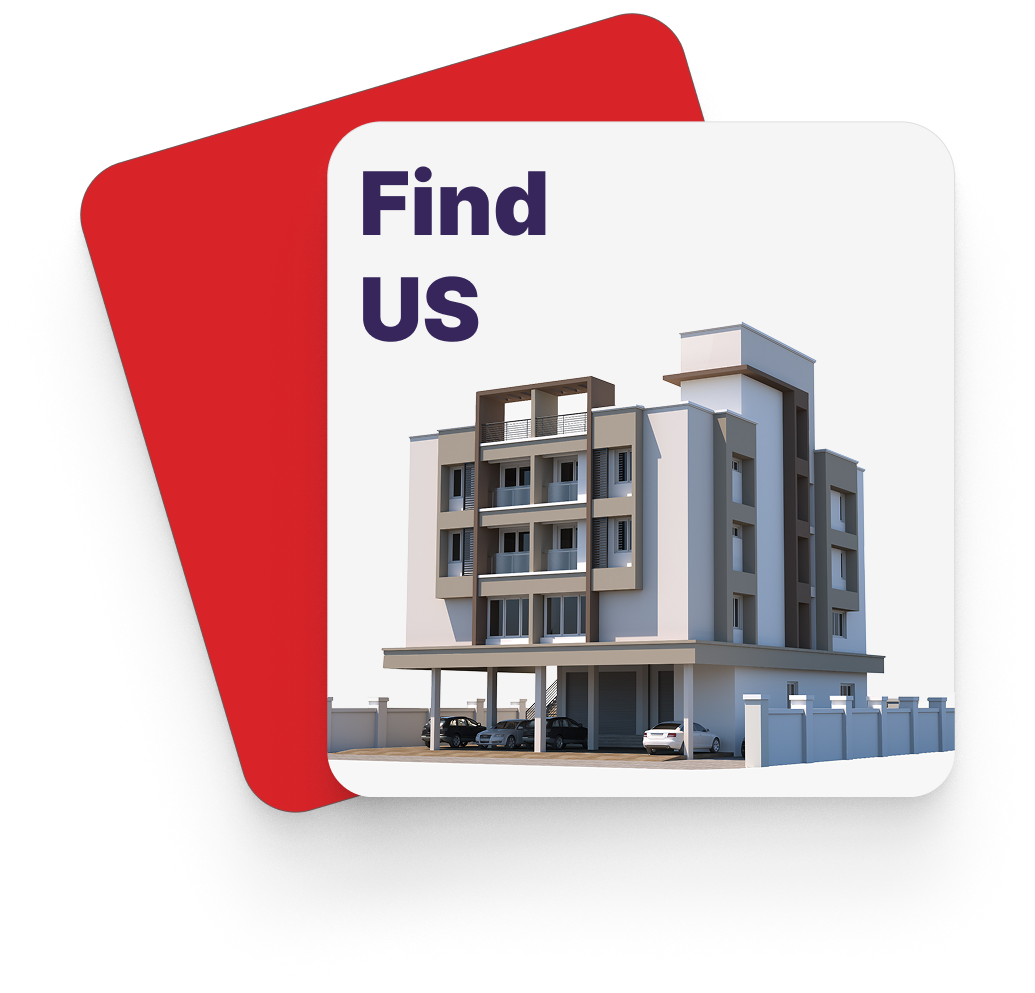
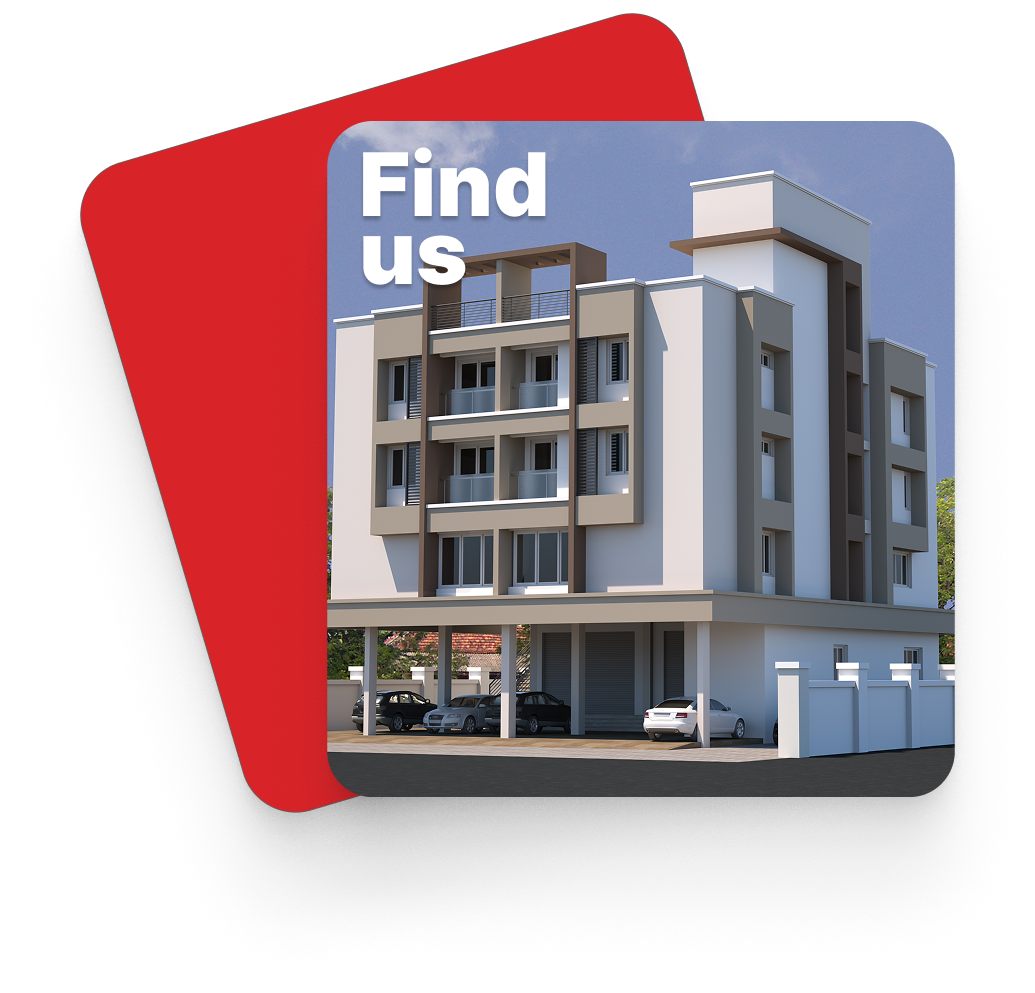
circle alignment

diff --git a/style.css b/style.css
@@ -400,7 +400,6 @@
 
     .value-card {
         margin: 24px !important;
-        height: 378px !important;
     }
 }
 
@@ -432,9 +431,6 @@
 }
 
 @media (max-width: 768px) {
-    .value-card {
-        height: 313px !important;
-    }
 
     .value-card h3 {
         font-size: 14px !important;
@@ -493,16 +489,15 @@
 }
 
 .value-card {
-    width: 100%;
-    height: 378px;
-    margin: -27px;
+    width: 1044px;
+    aspect-ratio: 1 / 1;
     background: #fff;
     border-radius: 50%;
     display: flex;
     flex-direction: column;
     align-items: center;
     justify-content: center;
-    padding: 20px;
+    padding: 44px;
     position: relative;
     z-index: 2;
     box-shadow:
@@ -511,6 +506,43 @@
     margin: -27px;
 }
 
+@media (max-width: 1530px) {
+    .value-card {
+        width: 1342px;
+    }
+}
+
+@media (max-width: 1280px) {
+    .value-card .icon img {
+        height: 97%;
+        width: 97%;
+    }
+
+    .value-card {
+        padding: 15px 38px;
+    }
+}
+
+@media (max-width: 1024px) {
+    .value-card .icon img {
+        height: 90%;
+        width: 90%;
+    }
+
+    .values-section.container {
+        max-width: 100% !important;
+
+    }
+
+    .value-card {
+        width: 2831px !important;
+        padding: 15px 1px;
+    }
+
+    .values-container {
+        padding: 40px 0;
+    }
+}
 
 .value-card .icon {
     font-size: 26px;
@@ -1142,44 +1174,53 @@ textarea {
     .quote .form-grid {
         grid-template-columns: 1fr;
     }
+
     .form-actions button {
-            font-size: 27px;
+        font-size: 27px;
     }
 }
 
 @media (max-width: 768px) {
     .quote .form-grid h3 {
         font-size: 21px;
-            margin-bottom: 17px;
+        margin-bottom: 17px;
     }
+
     .form-actions button {
-            font-size: 18px;
+        font-size: 18px;
     }
+
     .quote label {
         font-size: 13px !important;
         padding: 2px 4px !important;
     }
-   /* .quote input, .quote select, .quote textarea {
+
+    /* .quote input, .quote select, .quote textarea {
             font-size: 7px !important;
     } */
-     .quote input::placeholder,
-.quote textarea::placeholder {
-     font-size: 15px;
-}
+    .quote input::placeholder,
+    .quote textarea::placeholder {
+        font-size: 15px;
+    }
+
     .quote-form-container {
         padding: 0 0 20px 0 !important;
     }
+
     .quote .form-header {
-    padding: 30px;
-    margin: 20px 20px;
+        padding: 30px;
+        margin: 20px 20px;
     }
+
     .quote .form-header h2 {
-    font-size: 16px;
+        font-size: 16px;
     }
+
     .quote .form-header p {
-    font-size: 14px;
+        font-size: 14px;
     }
+
     .quote .form-grid {
-            padding: 10px 0;
+        padding: 10px 0;
     }
 }

diff --git a/home.css b/home.css
@@ -1400,7 +1400,6 @@ video {
     text-align: center;
     font-size: 33px;
     font-weight: 400;
-    text-transform: capitalize;
     --tw-text-opacity: 1;
     color: rgb(65 65 65 / var(--tw-text-opacity, 1));
 }
